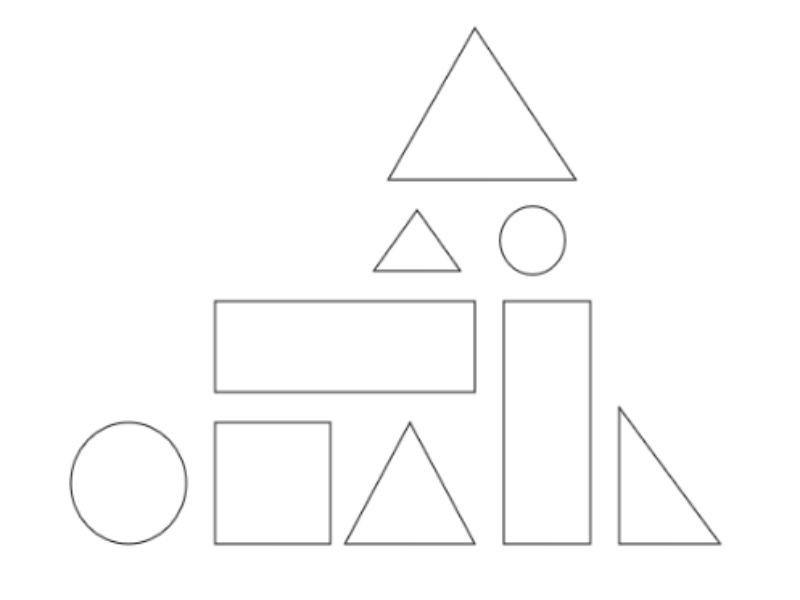
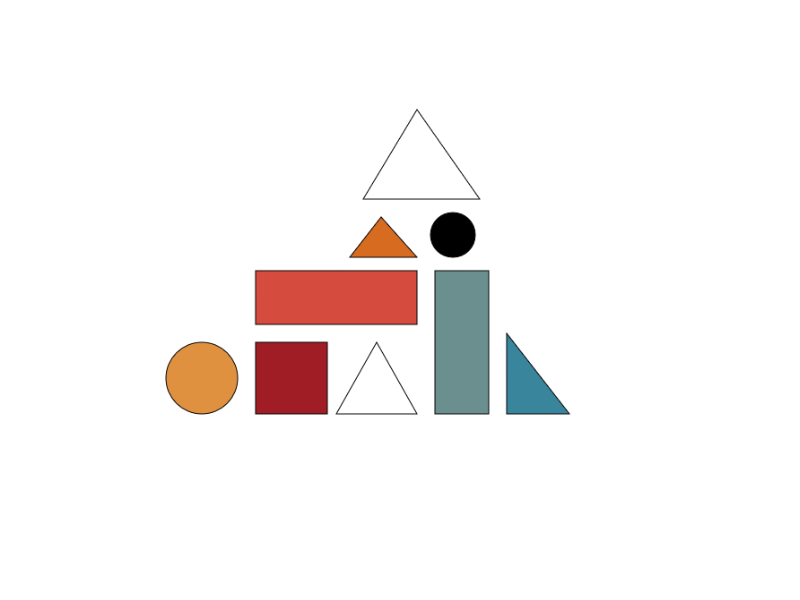
Added Colors
Added colors to shapes and text.
Fixed the thumbnail.
Clean the code.

diff --git a/projects/askisi2/sketch.js b/projects/askisi2/sketch.js
@@ -1,135 +1,134 @@
+let head = 0;
+let eraseHead = 0;
+let phase = 'drawing';
+const speed = 12;       // pixels per frame for the snake
+const borderWeight = 4; // thickness of the border
+
 function setup() {
   let cnv = createCanvas(600, 600);
   cnv.parent("canvas-container");
   cnv.style("display", "block");
   cnv.style("margin", "auto");
-  x = 600;
-  y = 600;
-
-  // Top triangle (bigger)
-  triangle(300, 80, 240, 180, 370, 180);
-
-  // Middle row
-  triangle(260, 200, 230, 240, 290, 240); // Smaller triangle
-  ellipse(340, 220, 45, 45); // Circle
-
-  rect(120, 260, 180, 60); // Long horizontal rectangle
-  rect(320, 260, 60, 160); // Tall rectangle
-
-  // Bottom row
-  ellipse(60, 380, 80, 80); // Circle
-  rect(120, 340, 80, 80); // Square
-
-  // Upside down triangle
-  triangle(255, 340, 210, 420, 300, 420);
-
-  // Right triangle
-  triangle(400, 420, 400, 330, 470, 420);
+  frameRate(60);
 }
 
 function draw() {
-  // Nothing dynamic here
+  background(255);
+  drawShapes();
+
+  strokeWeight(borderWeight);
+  noFill();
+  const perim = 2 * (width + height);
+
+  if (phase === 'drawing') {
+    stroke(0);
+    drawBorderSegment(0, head);
+    head += speed;
+    if (head >= perim) {
+      head = perim;
+      phase = 'erasing';
+      eraseHead = 0;
+    }
+
+  } else { // erasing
+    // draw the full black border ...
+    stroke(0);
+    drawBorderSegment(0, perim);
+    // ... then draw white over it like an erasing snake
+    stroke(255);
+    drawBorderSegment(0, eraseHead);
+    eraseHead += speed;
+    if (eraseHead >= perim) {
+      phase = 'drawing';
+      head = 0;
+    }
+  }
+}
+
+// helper: draw the border from t=a to t=b along the 4 edges
+function drawBorderSegment(a, b) {
+  let s = a;
+  let e = min(b, 2 * (width + height));
+  while (s < e) {
+    // top edge
+    if (s < width) {
+      let len = min(e, width) - s;
+      line(s, 0, s + len, 0);
+      s += len;
+
+    // right edge
+    } else if (s < width + height) {
+      let len = min(e, width + height) - s;
+      let y1 = s - width;
+      let y2 = y1 + len;
+      line(width, y1, width, y2);
+      s += len;
+
+    // bottom edge
+    } else if (s < 2 * width + height) {
+      let len = min(e, 2 * width + height) - s;
+      let seg = s - (width + height);
+      let x1 = width - seg;
+      let x2 = x1 - len;
+      line(x1, height, x2, height);
+      s += len;
+
+    // left edge
+    } else {
+      let len = min(e, 2 * (width + height)) - s;
+      let seg = s - (2 * width + height);
+      let y1 = height - seg;
+      let y2 = y1 - len;
+      line(0, y1, 0, y2);
+      s += len;
+    }
+  }
+}
+
+
+function drawShapes() {
+  stroke(0);
+  strokeWeight(1);
+
+  // Top triangle (no fill)
+  noFill();
+  triangle(300, 80, 240, 180, 370, 180);
+
+  // Middle row
+  fill('#d76b1f');  // orange triangle
+  triangle(260, 200, 225, 245, 300, 245); // Smaller triangle
+
+  // Black Circle
+  fill(0);
+  ellipse(340, 220, 50, 50);
+
+  // Long horizontal Red Rectangle
+  fill('#d54b3e');
+  rect(120, 260, 180, 60);
+
+  // gray‐green tall rect
+  fill('#6b8f8f');
+  rect(320, 260, 60, 160);
+
+
+  // Bottom row
+  // Beige Circle
+  fill('#e0913f');
+  ellipse(60, 380, 80, 80);
+
+  // deep red square
+  fill('#a01d25');
+  rect(120, 340, 80, 80);
+
+  // upside-down white triangle
+  noFill();
+  triangle(255, 340, 210, 420, 300, 420);
+
+  // blue right triangle
+  fill('#39859c');
+  triangle(400, 420, 400, 330, 470, 420);
+
 }
 
 
 
-
-
-// function setup() {
-//     createCanvas(800, 600);
-// }
-
-// function draw() {
-//     background(10);
-// }
-
-// Daniel Shiffman
-// http://codingtra.in
-// https://youtu.be/l__fEY1xanY
-// https://thecodingtrain.com/CodingChallenges/052-random-walk.html
-
-// let x;
-// let y;
-
-// function setup() {
-//   let cnv = createCanvas(windowWidth/2, windowHeight/2);
-//   cnv.parent("canvas-container");
-//   cnv.style("display", "block");
-//   cnv.style("margin", "auto");
-//   x = width / 2;
-//   y = height / 2;
-//   background(30,0,0);
-// }
-
-// function draw() {
-//   stroke(255,100);
-//   strokeWeight(5);
-//   point(x, y);
-//   const r = floor(random(4));
-//   switch (r) {
-//     case 0:
-//       x = x + 5;
-//       break;
-//     case 1:
-//       x = x - 5;
-//       break;
-//     case 2:
-//       y = y + 5;
-//       break;
-//     case 3:
-//       y = y - 5;
-//       break;
-//   }
-// }
-
-
-
-
-// -------------------------------
-// // Dimitris Papanikolaou
-// // interpolate point between two points
-
-// let v1;
-// let v2;
-// let p;
-// let slider;
-
-
-// function setup() {
-//   let cnv = createCanvas(400, 400);
-//   cnv.parent("canvas-container");
-//   cnv.style("display", "block");
-//   cnv.style("margin", "auto");
-//   v1 = createVector(50, 350);
-//   v2 = createVector(350, 50);
-//   p = createVector();
-//   slider = createSlider(0, 100);
-//   slider.position(10, 10);
-//   slider.size(80);
-//   slider.parent("canvas-container");
-//   slider.style("display", "block");
-//   slider.style("margin", "auto");
-// }
-
-// function draw() {
-//   background(255);
-//   strokeWeight(1);
-//   stroke(0)
-//   rect(0,0,400,400);
-//   line(v1.x, v1.y, v2.x, v2.y);
-
-//   strokeWeight(8);
-//   stroke(0);
-//   p = interpolatePoint(v1,v2, slider.value()/100);
-//   point(v1.x, v1.y);
-//   point(v2.x, v2.y);
-//   stroke(255,0,0);
-//   point(p.x, p.y);
-// }
-
-// function interpolatePoint(p1,p2, t){
-//   let x = t * (p2.x-p1.x) + p1.x;
-//   let y = t * (p2.y-p1.y) + p1.y;
-//   let p = createVector(x, y);
-//   return p;
-// }

diff --git a/projects/askisi2/askisi2.html b/projects/askisi2/askisi2.html
@@ -31,10 +31,14 @@
   <div id="projects" class="container" >
 
     <div class="row one-top center">
-        <div id="canvas-container" class="canvas-container">
-        </div>
+        <div id="canvas-container" class="canvas-container"></div>
     </div>
 
+    <div class="row one-top center">
+      <div id="textarea">
+        <p>Η σύνθεση του project βασίζεται στη χρήση βασικών γεωμετρικών σχημάτων, τα οποία, μέσα από τον συνδυασμό και την αλληλεπίδρασή τους, δημιουργούν ένα αρμονικό και ολοκληρωμένο αποτέλεσμα. Η κεντρική ιδέα πίσω από αυτή τη σύνθεση είναι η σύνδεση με την αρχιτεκτονική: όπως τα απλά γεωμετρικά στοιχεία συνεργάζονται για να διαμορφώσουν μια ενιαία και δυναμική μορφή, έτσι και στην αρχιτεκτονική, τα επιμέρους δομικά και αισθητικά στοιχεία συντίθενται για να ολοκληρώσουν το κτίριο και να εκφράσουν τη συνολική ιδέα του. Μέσα από αυτή τη διαδικασία, αναδεικνύεται η δύναμη της απλότητας και η αξία της συνύπαρξης των στοιχείων για τη δημιουργία ουσιαστικών και ολοκληρωμένων μορφών.</p>
+      </div>
+    </div>
 
     <div class="row one-bottom center">
       <p>©Anastasios Tserpelis 2025</p>

diff --git a/css/customize.css b/css/customize.css
@@ -26,7 +26,7 @@ img.full-height {
 }
 
 .canvas-container{
-	border:1px solid #000000;
+	/*border:1px solid #000000;*/
 	height: 600;
 	width: 600;
 }

diff --git a/index.html b/index.html
@@ -3,7 +3,7 @@
 <head>
 
   <!-- Basic Page Needs–– -->
-  <meta charset="utf-8"> 
+  <meta charset="utf-8">
 
   <title>NTUA ARCH 4342</title>
 
